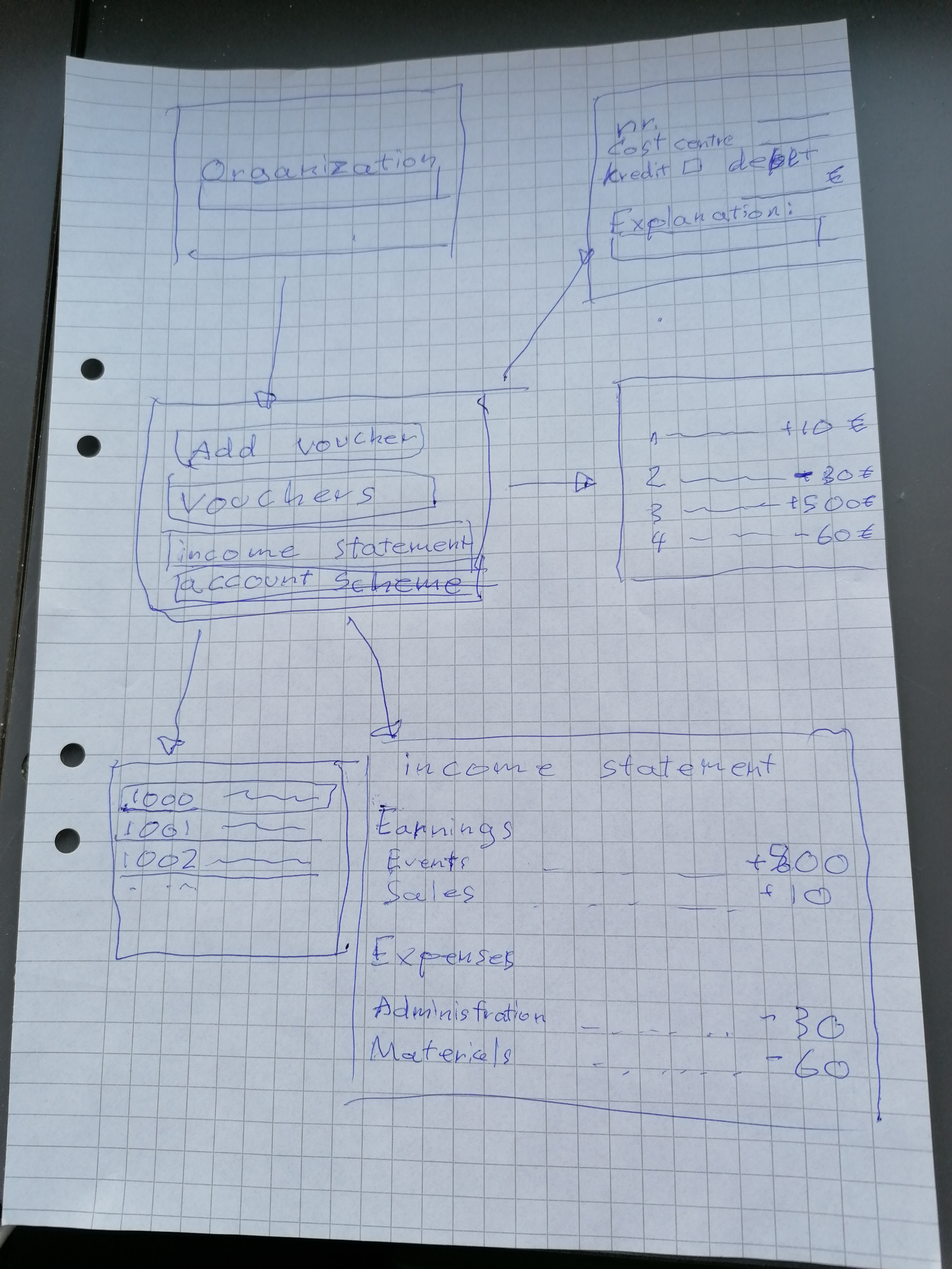
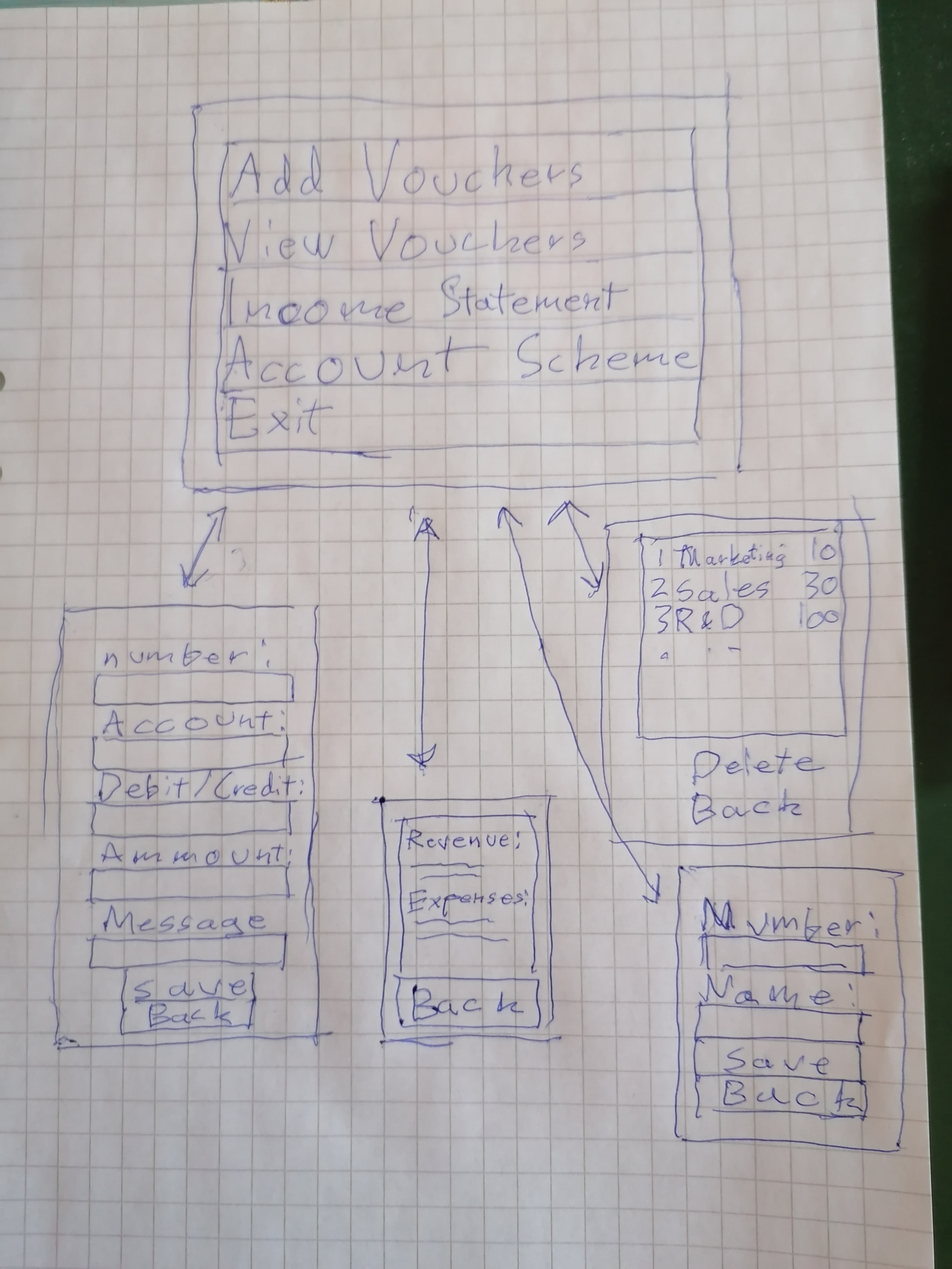
määrittelydokumentti ja testit

diff --git a/src/tests/services_test.py b/src/tests/services_test.py
@@ -3,17 +3,47 @@ from entities.voucher import Voucher
 from entities.coscentre import CostCentre
 from build import build
 from services.ht_service import HtService
-build()
 
 class TestServices(unittest.TestCase):
     def setUp(self):
-        self.voucher_1 = Voucher(1, '0001', 0, 10, "Testi")
+        self.voucher_1 = Voucher(1, '1001', 0, 10, "Testi")
         self.costcentre = CostCentre('1001', 'Testing')
         self.service = HtService()
     
+    # Test if voucher can be saved, and if voucher with same number can be found
     def test_save_voucher(self):
+        build()
         self.service.save_voucher(self.voucher_1.number, self.voucher_1.cost_centre, self.voucher_1.debit_credit, self.voucher_1.ammount, self.voucher_1.message)
         vouchers = self.service.get_vouchers()
         testvoucher = vouchers[0]
         self.assertEqual(testvoucher.number, 1)
+    
+    # Tests that two vouchers cannot be saved with the same number
+    def test_save_account_twice(self):
+        build()
+        self.service.save_voucher(self.voucher_1.number, self.voucher_1.cost_centre, self.voucher_1.debit_credit, self.voucher_1.ammount, self.voucher_1.message)
+        test_save_again = self.service.save_voucher(self.voucher_1.number, self.voucher_1.cost_centre, self.voucher_1.debit_credit, self.voucher_1.ammount, self.voucher_1.message)
+        self.assertEqual(test_save_again, False)
 
+    # Test if account can be saved, and if account of same number can be found
+    def test_save_account(self):
+        build()
+        self.service.save_new_account(self.costcentre.number, self.costcentre.name)
+        test_exists = self.service.find_account(self.costcentre.number)
+        self.assertEqual(test_exists, True)
+    
+    # Tests that two accounts cannot be saved with the same number
+    def test_save_account_twice(self):
+        build()
+        self.service.save_new_account(self.costcentre.number, self.costcentre.name)
+        test_save_again = self.service.save_new_account(self.costcentre.number, self.costcentre.name)
+        self.assertEqual(test_save_again, False)
+    
+    # Tests that the method returns us something. 
+    # Doesn't test if the formating is correct 
+    def test_income_statement(self):
+        build()
+        self.service.save_new_account(self.costcentre.number, self.costcentre.name)
+        self.service.save_voucher(self.voucher_1.number, self.voucher_1.cost_centre, self.voucher_1.debit_credit, self.voucher_1.ammount, self.voucher_1.message)
+        lines = self.service.get_income_statement_lines()
+        self.assertNotEqual(lines, None)

diff --git a/src/repositories/voucher_repository.py b/src/repositories/voucher_repository.py
@@ -1,10 +1,12 @@
 from entities.voucher import Voucher
 from database_connection import get_database_connection
 
+# This class handles all interactions with the database
 class VoucerRepository():
     def __init__(self) -> None:
         pass
 
+    # Methods to interact with table "vouchers"
     def save_new_voucher(self, v: Voucher):
         db = get_database_connection()
         db.isolation_level = None
@@ -29,6 +31,7 @@ class VoucerRepository():
             vouchers.append(v)
         return vouchers
     
+    # Methods to interact with table "accounts"
     def save_account(self, number: str, name: str):
         db = get_database_connection()
         db.isolation_level = None

diff --git a/src/services/ht_service.py b/src/services/ht_service.py
@@ -30,7 +30,7 @@ class HtService:
     def get_accounts(self):
         return self._voucher_repository.fetch_accounts()
 
-    # Methods for the costcentres
+    # Methods for creating the income statements
     def collect_data(self):
         data = []
         accountscheme = {}

diff --git a/dokumentaatio/vaatimusmaarittely.md b/dokumentaatio/vaatimusmaarittely.md
@@ -1,25 +1,36 @@
 # Vaatimusmäärittely
 ## Sovelluksen tarkoitus
-Sovelluksen tarkoitus on toimia yksinkertaisena kirjanpitoohjelmana. Käyttäjä pystyy syöttämään debet-  ja kredit-tapahtumia, ja ohjelma pystyy tuottamaan tuloslaskelman.
+Sovellus toimii yksinkertaisena kirjanpitoohjelmana. Käyttäjä pystyy syöttämään debet- ja kredit-tapahtumia, ja ohjelma pystyy tuottamaan tuloslaskelman.
 ## Käyttäjät
 Sovelluksessa on vain yksi käyttäjärooli. 
 ## Käyttöliittymäluonnos
-Sovellus tulee koostua kuudesta eri näkymästä.
+Sovellus koostuu viidestä eri näkymästä.
+Alkunäkymästä navigoidaan muihin näkymiin.
+Jokaisella käyttöliittymän näkymällä on oma toiminnallisuus.
+Toiminnallisuudet ovat seuraavat:
+ - Talentaa tositteita
+ - Tarkistaa kaikkia tositteita
+ - Näyttää tuloslaskelman
+ - Tilien/kustannuspaikkojen lisääminen
+Kuvan avulla hahmoittaa käyttöliittymän näkymät (suurin piirtein)
 ![](./kuvat/kayttoliittyma-hahmotus.jpg)
 ## Toiminnallisuus
-### Kirjautuminen
-- Organisaatio toimii kirjautumisena.
-- Käyttäjä kirjoitta organisaation nimen.
-- Jos organisaatiota ei löydy kysytään jos sitä halutaan luoda.
 ### "Perusnäkymässä"
 - Parusnäkymästä voi siirtyä seuraaviin:
   - Lisää tosite
   - Tositteet
   - Tuloslaskelma
   - Tilikartta
+  - Sulje ohjelma
 
 ### Lisää tosite
 Käyttäjä valitsee tositenumeron, kustannuspaikan, debet/kredit ja lisää selityksen.
+Kun kaikki kentät ovat syötetty oikein käyttäjä pystyy tallentamaan tositteen.
+
+Syötteiden säännöt:
+ - Samaa tositenumeroa voi käyttää vain kerran
+ - Tili täytyy olla lisättynä ennen tositteen tallentamista.
+ - 'Debit/Credit'-kenttään ainoat hyväksytyt syötteet ovat 'd' tai 'c'
 
 ### Tositteet
 Käyttäjä voi katsella tositteita ja poistaa niitä halutessaan.
@@ -27,7 +38,7 @@ Käyttäjä voi katsella tositteita ja poistaa niitä halutessaan.
 ### Tuloslaskelma
 Ohjelma luo tuloslaskelman ja esittää sen ruudulla.
 
-- Jos on aikaa niin saatetaan lisätä toiminnallisuus tallentaa jonkinlaisena dokumenttina.
+- Kehittämismahdollisuus olisi jos ohjelma tallentaisi tuloslaskelman dokumenttiin.
 
 # Tilikartta
-Käyttäjä voi lisätä ja poistaa kustannuspaikkoja.
+Käyttäjä voi lisätä kustannuspaikkoja.

diff --git a/README.md b/README.md
@@ -14,3 +14,9 @@ poetry run invoke build
 3. Käynnistä sovellus suorittamalla komento:
 Bash
 poetry run invoke start
+
+Huom: Ohjelman asettamista varten tietokoneellasi täytyy olla pythonille poetry-työkalu asetettuna. 
+Ohjeita asettamiseen löydät täältä: [https://python-poetry.org/docs/](https://python-poetry.org/docs/)
+
+## Dokumentaatio:
+[Määrittelydokumentti](dokumentaatio/vaatimusmaarittely.md)

diff --git a/dokumentaatio/changelog.md b/dokumentaatio/changelog.md
@@ -25,4 +25,5 @@
 ## Viikko 7
 
  - Lisätty exit-toiminto
- - Added tests
+ - Lisätty testejä
+ - Määrittelydokumentti päivitetty
